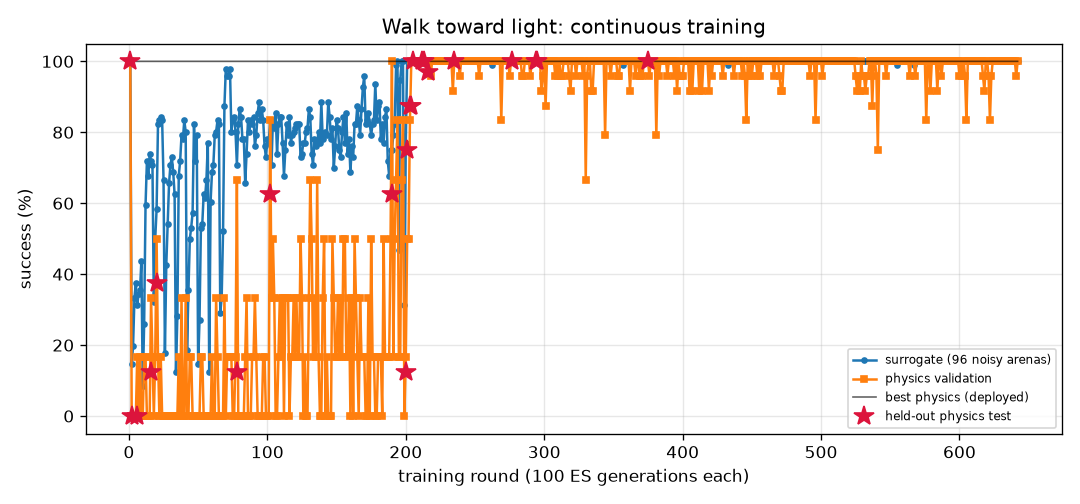
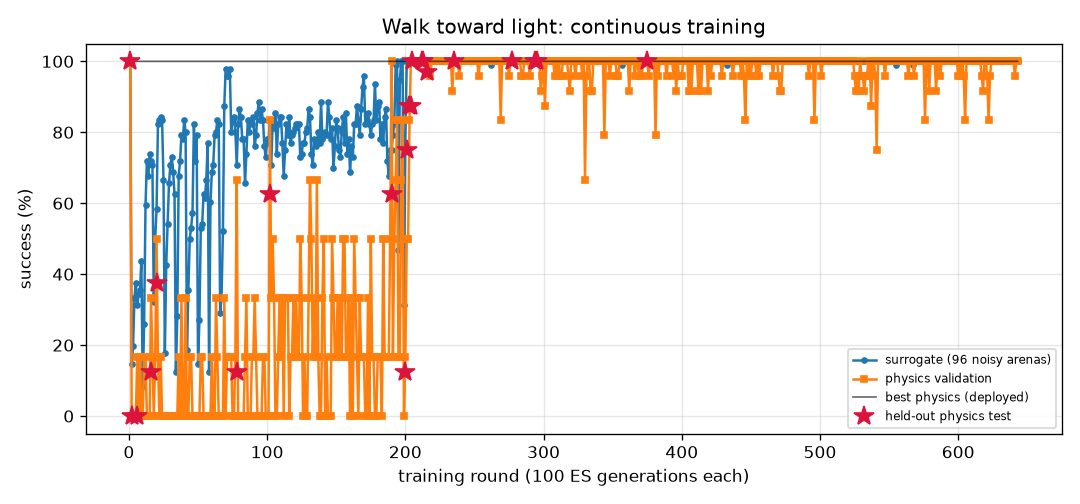
FlyLab: continuous training progress
- walk_forward: optimal, physics val 100% of 24, round 569
- turn: optimal, physics val 100% of 24, round 1409
- goto: optimal, physics val 100% of 24, round 439
- odor_seek: optimal, physics val 100% of 24, round 352
- odor_avoid: optimal, physics val 100% of 24, round 1180
- light_seek: optimal, physics val 100% of 24, round 643
- light_avoid: optimal, physics val 100% of 24, round 894

diff --git a/projects/09_flylab/training/light_seek/REPORT.md b/projects/09_flylab/training/light_seek/REPORT.md
@@ -1,14 +1,14 @@
 # Walk toward light (`light_seek`) — training report
 
-*Auto-generated by `train_brains.py`, last updated 2026-11-27T16:32:51.*
+*Auto-generated by `train_brains.py`, last updated 2026-11-27T17:23:52.*
 
 ![curve](curve.png)
 
 | | |
 |---|---|
-| rounds | 642 |
-| ES generations | 64200 |
-| physics runs | 12288 |
+| rounds | 643 |
+| ES generations | 64300 |
+| physics runs | 12312 |
 | status | **optimal** |
 | best brain | round 375: physics validation **100%** on 24 arenas, surrogate 100% |
 | held-out physics test | **100%** on 32 unseen arenas (95% CI 89%-100%) (errors: [0.57, 0.54, 0.53, 0.57, 0.55, 0.56, 0.59, 0.56, 0.53, 0.56, 0.71, 0.56, 0.55, 0.54, 0.53, 0.54, 0.54, 0.55, 0.52, 0.65, 0.64, 0.7, 0.58, 0.57, 0.6, 0.62, 0.55, 0.88, 0.54, 0.52, 0.62, 0.57]) |
@@ -17,7 +17,6 @@ Physics error per arena: mm from target at the end (< 1.5 and standing still = s
 
 | round | level | gens | sigma | surrogate | physics val | val errors | test | note |
 |---:|---:|---:|---:|---:|---:|---|---:|---|
-| 603 | 3 | 60300 | 0.024 | 100% | 100% | [1.14, 0.5, 0.5, 0.52, 0.45, 0.47, 0.47, 0.49, 0.46, 0.52, 0.89, 0.51, 0.56, 0.51, 0.5, 0.65, 0.46, 0.57, 0.47, 0.51, 0.51, 0.49, 0.49, 0.62] |  | restart from best |
 | 604 | 3 | 60400 | 0.024 | 100% | 96% | [0.68, 0.75, 0.84, 3.69, 0.67, 0.56, 0.74, 0.67, 0.75, 0.78, 0.79, 0.68, 0.76, 0.86, 0.67, 0.72, 0.69, 0.62, 0.65, 0.93, 0.73, 0.64, 0.71, 0.75] |  |  |
 | 605 | 3 | 60500 | 0.024 | 100% | 83% | [0.96, 0.6, 0.73, 0.6, 0.7, 0.62, 0.63, 0.61, 2.47, 0.78, 1.03, 0.73, 1.97, 0.61, 2.8, 1.57, 0.73, 0.58, 0.59, 0.6, 0.69, 1.0, 1.08, 0.63] |  |  |
 | 606 | 3 | 60600 | 0.024 | 100% | 100% | [0.59, 0.64, 0.56, 0.58, 0.58, 0.76, 1.02, 0.6, 0.88, 0.56, 0.62, 0.64, 0.82, 0.68, 0.57, 0.66, 0.76, 1.19, 0.58, 0.72, 0.57, 0.77, 0.52, 0.6] |  |  |
@@ -57,3 +56,4 @@ Physics error per arena: mm from target at the end (< 1.5 and standing still = s
 | 640 | 3 | 64000 | 0.024 | 100% | 100% | [1.28, 0.62, 0.57, 0.54, 0.58, 0.53, 0.57, 0.71, 0.6, 0.54, 0.59, 0.61, 0.59, 0.69, 0.57, 0.53, 0.57, 0.54, 0.54, 0.67, 1.18, 0.58, 1.14, 1.01] |  |  |
 | 641 | 3 | 64100 | 0.024 | 100% | 96% | [0.98, 0.71, 0.56, 0.65, 0.61, 0.59, 0.48, 0.55, 0.52, 0.53, 0.52, 0.51, 0.63, 0.6, 0.67, 0.6, 0.59, 0.57, 0.51, 0.56, 0.52, 1.91, 0.63, 0.78] |  |  |
 | 642 | 3 | 64200 | 0.024 | 100% | 100% | [0.56, 0.61, 0.6, 1.1, 0.55, 1.12, 1.12, 0.53, 0.52, 0.48, 1.17, 0.63, 0.6, 0.54, 0.62, 0.55, 0.58, 0.6, 0.58, 0.58, 0.49, 0.57, 0.57, 0.61] |  |  |
+| 643 | 3 | 64300 | 0.024 | 100% | 100% | [0.47, 0.55, 1.03, 0.5, 0.53, 0.59, 0.5, 0.6, 0.51, 0.57, 0.5, 0.52, 0.56, 0.61, 0.52, 0.64, 0.51, 0.47, 0.51, 0.46, 0.49, 0.46, 0.57, 0.6] |  | restart from best |

diff --git a/projects/09_flylab/training/goto/REPORT.md b/projects/09_flylab/training/goto/REPORT.md
@@ -1,14 +1,14 @@
 # Go to a location (`goto`) — training report
 
-*Auto-generated by `train_brains.py`, last updated 2026-11-27T16:32:49.*
+*Auto-generated by `train_brains.py`, last updated 2026-11-27T17:22:39.*
 
 ![curve](curve.png)
 
 | | |
 |---|---|
-| rounds | 438 |
-| ES generations | 43800 |
-| physics runs | 10462 |
+| rounds | 439 |
+| ES generations | 43900 |
+| physics runs | 10486 |
 | status | **optimal** |
 | best brain | round 176: physics validation **100%** on 24 arenas, surrogate 100% |
 | held-out physics test | **100%** on 32 unseen arenas (95% CI 89%-100%) (errors: [0.2, 0.32, 0.19, 0.24, 0.18, 0.2, 0.19, 0.17, 0.22, 0.23, 0.23, 0.26, 0.2, 0.19, 0.24, 0.23, 0.22, 0.24, 0.2, 0.22, 0.2, 0.2, 0.26, 0.19, 0.22, 0.18, 0.26, 0.22, 0.2, 0.26, 0.23, 0.23]) |
@@ -17,7 +17,6 @@ Physics error per arena: mm from target at the end (< 1.5 and standing still = s
 
 | round | level | gens | sigma | surrogate | physics val | val errors | test | note |
 |---:|---:|---:|---:|---:|---:|---|---:|---|
-| 399 | 3 | 39900 | 0.025 | 99% | 100% | [0.43, 0.44, 0.46, 0.45, 0.32, 0.42, 0.39, 0.47, 0.47, 0.35, 0.4, 0.43, 0.45, 0.37, 0.31, 0.37, 0.45, 0.42, 0.33, 0.44, 0.35, 0.36, 0.46, 0.46] |  |  |
 | 400 | 3 | 40000 | 0.025 | 99% | 100% | [0.67, 0.61, 0.63, 0.5, 0.44, 0.53, 0.67, 0.56, 0.63, 0.47, 0.44, 0.49, 0.6, 0.41, 0.52, 0.5, 0.59, 0.53, 0.47, 0.57, 0.5, 0.47, 0.6, 0.49] |  | restart from best |
 | 401 | 3 | 40100 | 0.024 | 99% | 100% | [0.49, 0.42, 0.37, 0.38, 0.33, 0.34, 0.48, 0.39, 0.41, 0.35, 0.35, 0.37, 0.44, 0.32, 0.42, 0.38, 0.46, 0.38, 0.34, 0.44, 0.36, 0.37, 0.45, 0.35] |  |  |
 | 402 | 3 | 40200 | 0.025 | 100% | 100% | [0.49, 0.49, 0.39, 0.42, 0.41, 0.39, 0.5, 0.4, 0.47, 0.41, 0.38, 0.42, 0.5, 0.38, 0.45, 0.46, 0.51, 0.4, 0.4, 0.46, 0.44, 0.42, 0.49, 0.42] |  |  |
@@ -57,3 +56,4 @@ Physics error per arena: mm from target at the end (< 1.5 and standing still = s
 | 436 | 3 | 43600 | 0.025 | 99% | 100% | [0.47, 0.49, 0.4, 0.45, 0.37, 0.45, 0.43, 0.49, 0.51, 0.36, 0.38, 0.43, 0.5, 0.43, 0.38, 0.41, 0.47, 0.43, 0.35, 0.45, 0.41, 0.36, 0.51, 0.47] |  | restart from best |
 | 437 | 3 | 43700 | 0.024 | 100% | 100% | [0.42, 0.38, 0.32, 0.37, 0.3, 0.34, 0.43, 0.37, 0.38, 0.31, 0.32, 0.37, 0.4, 0.29, 0.35, 0.34, 0.43, 0.34, 0.31, 0.41, 0.31, 0.35, 0.4, 0.35] |  |  |
 | 438 | 3 | 43800 | 0.024 | 99% | 100% | [0.49, 0.44, 0.43, 0.4, 0.34, 0.37, 0.51, 0.38, 0.43, 0.36, 0.35, 0.38, 0.45, 0.31, 0.43, 0.39, 0.48, 0.38, 0.37, 0.45, 0.37, 0.39, 0.45, 0.37] |  |  |
+| 439 | 3 | 43900 | 0.025 | 99% | 100% | [0.53, 0.47, 0.49, 0.39, 0.33, 0.37, 0.49, 0.44, 0.52, 0.34, 0.33, 0.39, 0.47, 0.33, 0.38, 0.4, 0.51, 0.41, 0.32, 0.44, 0.38, 0.36, 0.5, 0.38] |  |  |

diff --git a/projects/09_flylab/training/TRAINING.md b/projects/09_flylab/training/TRAINING.md
@@ -1,6 +1,6 @@
 # FlyLab brains — continuous training log
 
-*Auto-generated by `train_brains.py`, last updated 2026-11-27T16:32:51.*
+*Auto-generated by `train_brains.py`, last updated 2026-11-27T17:23:53.*
 
 Every skill has its own brain and its own training process: surrogate ES rounds, physics validation in MuJoCo, keep-the-best selection, and a held-out physics test that is never used for selection. See each skill's report for its full round-by-round history. Mastery is progressive: passing a level (100% physics validation, >=95% surrogate) doubles the validation and test arena sets; a brain is **optimal** once it holds up at level 3 (>=95% of 24 validation arenas) AND scores >=90% on the 32 held-out test arenas. Test columns show 95% Wilson confidence intervals.
 
@@ -8,8 +8,8 @@ Every skill has its own brain and its own training process: surrogate ES rounds,
 |---|---:|---:|---:|---:|---:|---:|---|
 | [Walk forward](walk_forward/REPORT.md) | 569 | 56900 | 13734 | 100% | 100% of 24 | 100% of 32 (CI 89-100%) | **optimal** |
 | [Turn in place](turn/REPORT.md) | 1409 | 140900 | 34062 | 100% | 100% of 24 | 97% of 32 (CI 84-99%) | **optimal** |
-| [Go to a location](goto/REPORT.md) | 438 | 43800 | 10462 | 100% | 100% of 24 | 100% of 32 (CI 89-100%) | **optimal** |
+| [Go to a location](goto/REPORT.md) | 439 | 43900 | 10486 | 100% | 100% of 24 | 100% of 32 (CI 89-100%) | **optimal** |
 | [Find food by smell](odor_seek/REPORT.md) | 352 | 35200 | 7942 | 100% | 100% of 24 | 100% of 32 (CI 89-100%) | **optimal** |
 | [Escape a bad smell](odor_avoid/REPORT.md) | 1180 | 118000 | 25626 | 97% | 100% of 24 | 97% of 32 (CI 84-99%) | **optimal** |
-| [Walk toward light](light_seek/REPORT.md) | 642 | 64200 | 12288 | 100% | 100% of 24 | 100% of 32 (CI 89-100%) | **optimal** |
+| [Walk toward light](light_seek/REPORT.md) | 643 | 64300 | 12312 | 100% | 100% of 24 | 100% of 32 (CI 89-100%) | **optimal** |
 | [Hide from light](light_avoid/REPORT.md) | 894 | 89400 | 21728 | 100% | 100% of 24 | 100% of 32 (CI 89-100%) | **optimal** |
